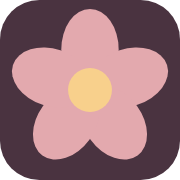
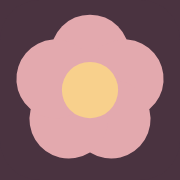
Revisión de cambios de Cursor: contraste, SEO local y rendimiento (#21)
* Revisión de cambios de Cursor: contraste de paleta, títulos sin canibalizar, proyectos locales en /ciudad-real e imágenes más ligeras

Claude-Session: https://claude.ai/code/session_01QdqYg9FHX6zwMKt3R3q2hh

* Flor del logo y favicon con pétalos redondos, como el kit de Instagram

Claude-Session: https://claude.ai/code/session_01QdqYg9FHX6zwMKt3R3q2hh

---------

diff --git a/src/data/pages-meta.ts b/src/data/pages-meta.ts
@@ -2,12 +2,12 @@ import { brand } from './brand';
 
 export const pagesMeta = {
   '/': {
-    title: `Diseño web y marketing digital en España | ${brand.name}`,
+    title: `Diseño web y marketing en Ciudad Real y toda España | ${brand.name}`,
     description:
-      'Diseño y desarrollo web a medida, SEO y marketing para negocios de toda España. Sede en Ciudad Real. Webs bonitas, rápidas y pensadas para vender. Presupuesto cerrado.',
+      'Diseño web a medida, SEO y marketing digital desde Ciudad Real para negocios de toda España. Webs bonitas, rápidas y pensadas para vender. Presupuesto cerrado.',
   },
   '/ciudad-real': {
-    title: `Diseño web y marketing en Ciudad Real | ${brand.name}`,
+    title: `Páginas web y SEO local en Ciudad Real | ${brand.name}`,
     description:
       'Diseñadora web y marketing digital en Ciudad Real: webs a medida, SEO local y estrategia para negocios de la provincia y Castilla-La Mancha. También trabajo en remoto en toda España.',
   },

diff --git a/src/styles/tokens.css b/src/styles/tokens.css
@@ -1,4 +1,4 @@
-:root {
+:root {
   /*
    * Sistema visual Adrips 2026
    * Base cálida y editorial (papel + tinta ciruela) con un único acento fuerte
@@ -17,7 +17,7 @@
   /* Fondo oscuro de secciones, botones y tarjetas destacadas */
   --plum: #54405a;
   --plum-2: #63506a;
-  --muted: #7a6a80;
+  --muted: #706076;
   --paper: #faf2ec;
   --paper-2: #f5ebe4;
   --paper-3: #efe3db;
@@ -30,7 +30,7 @@
   --accent-hover: #433248;
   --accent-soft: #f4e4e8;
   --accent-light: #ecb6bd;
-  --accent-em: #c98996; /* cursivas de titulares: rosa legible en grande */
+  --accent-em: #ad6f80; /* cursivas de titulares: rosa empolvado, contraste ≥3:1 sobre todos los fondos claros */
   --blush: #ecb6bd;
   --rose: #ecb6bd;
   --cream: #faf2ec;

diff --git a/src/data/eventos.ts b/src/data/eventos.ts
@@ -119,7 +119,7 @@ export const azureaTeaser = {
   ctaLabel: 'Conocer Azurea Catering',
   ctaHref: 'https://azureacatering.com/',
   image: {
-    src: '/images/azurea-catering.png',
+    src: '/images/azurea-catering.webp',
     alt: 'Camarero de Azurea Catering con delantal bordado y bandeja de aperitivos',
   },
 };
